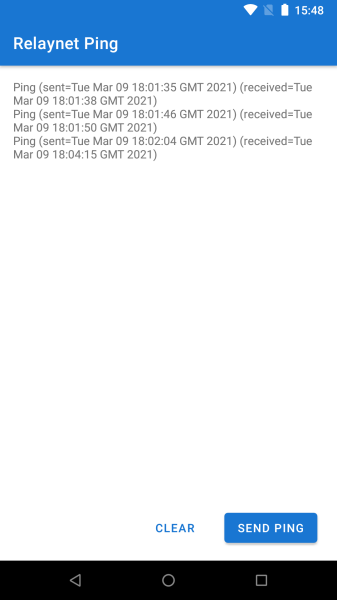
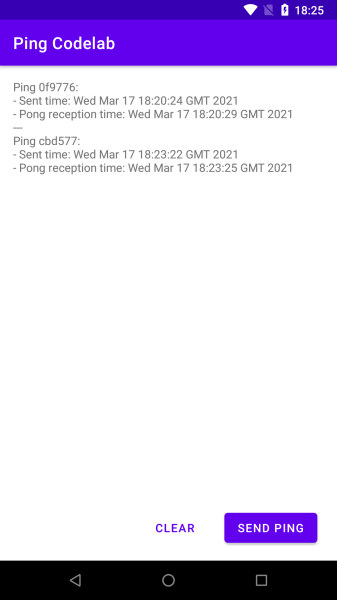
wip

Changed region(s): [[0.0, 0.0, 1.0, 0.3], [0.6528, 0.84, 0.9496, 0.93], [0.4451, 0.87, 0.5935, 0.9]]

diff --git a/codelabs/android-centralised.md b/codelabs/android-centralised.md
@@ -14,7 +14,7 @@ Duration: 0:5:00
 
 An _Awala service_ is a collection of mobile, desktop, server-side and/or CLI apps that exchange mutually-intelligible messages using _endpoints_. Server-side apps exposed as Internet hosts will have _public endpoints_ (e.g., `your-service.com`), whilst all other apps (e.g., mobile, desktop) will have _private endpoints_.
 
-The service is _centralised_ if there's a public endpoint as the sender or recipient of all messages, _decentralised_ if all endpoints are private. Alternatively, if there's a public endpoint involved in some but not necessarily all messages, then the service is _hybrid_.
+The service is _centralised_ if there's a public endpoint as the sender or recipient of all messages, or _decentralised_ if all endpoints are private. Alternatively, if there's a public endpoint involved in some but not necessarily all messages, then the service is _hybrid_.
 
 Anyone can define Awala services, but to keep this codelab simple, we'll just build an Android app for [Awala Ping](https://specs.awala.network/RS-014), which is a trivial service used to test Awala implementations.
 
@@ -32,7 +32,7 @@ On the other hand, `ping.awala.services` has to respond to your ping by sending 
 
 ![](./images/android-centralised/service-architecture-pong.png)
 
-Awala requires messages bound for private endpoints (such as the one inside this Android app) to be pre-authorised by the recipient, so that means your ping message will have to include an authorisation for `ping.awala.services` to reply with a pong message. In a regular service, authorisations would be issued once and renewed periodically, but because `ping.awala.services` is stateless, the Android app will have to issue an authorisation each time.
+Awala requires messages bound for private endpoints (such as the one inside this Android app) to be pre-authorised by the recipient, so that means your ping message will have to include an authorisation for `ping.awala.services` to reply with a pong message. In a regular service, authorisations would be issued once and renewed periodically, but `ping.awala.services` is stateless, so your app will have to issue an authorisation each time.
 
 You'll be using the Android endpoint library _[awaladroid](https://github.com/relaycorp/awala-endpoint-android)_ to send and receive messages via the private gateway.
 
@@ -42,6 +42,10 @@ You'll be using the Android endpoint library _[awaladroid](https://github.com/re
 - [Android Studio](https://developer.android.com/studio) 4.1+.
 - An Android phone or table running Android 5+.
 - The [private gateway](https://play.google.com/store/apps/details?id=tech.relaycorp.gateway) installed on that Android device.
+
+### In case you need help
+
+If you have any issues in the course of this codelab, please post a message on [our forum](https://community.awala.network/) and we'll help you out! You can also check out the [final version of the app you're going to build](https://github.com/AwalaNetwork/codelabs/tree/main/examples/android-centralised).
 
 ## Set up a new project
 
@@ -73,11 +77,19 @@ repositories {
 }
 ```
 
+Next, add the following line to the `compileOptions` inside `android { ... }` so that you can [use Java 8 features](https://developer.android.com/studio/write/java8-support) (e.g., `ZonedDateTime`):
+
+```groovy
+coreLibraryDesugaringEnabled true
+```
+
 Then add the following inside `dependencies { ... }`:
 
 ```groovy
+    // Support modern Java classes (e.g., ZonedDateTime)
+    coreLibraryDesugaring 'com.android.tools:desugar_jdk_libs:1.1.5'
     // Awala
-    implementation 'tech.relaycorp:awaladroid:1.5.4'
+    implementation 'tech.relaycorp:awaladroid:1.5.6'
     // Preferences
     implementation 'androidx.preference:preference-ktx:1.1.1'
     implementation 'com.github.tfcporciuncula.flow-preferences:flow-preferences:1.3.4'
@@ -117,32 +129,30 @@ import com.squareup.moshi.Moshi
 import com.squareup.moshi.Types
 import com.tfcporciuncula.flow.FlowSharedPreferences
 import com.tfcporciuncula.flow.Serializer
-import kotlinx.coroutines.ExperimentalCoroutinesApi
 
-data class PingMessage(
+data class Ping(
     val id: String,
-    val sent: Long = System.currentTimeMillis(),
-    val received: Long? = null
+    val pingDate: Long = System.currentTimeMillis(),
+    val pongDate: Long? = null
 )
 
-@ExperimentalCoroutinesApi
 class PingRepository(
     private val flowSharedPreferences: FlowSharedPreferences,
     private val moshi: Moshi
 ) {
     private val repo by lazy {
-        val serializer = object : Serializer<List<PingMessage>> {
-            private val adapter = moshi.adapter<List<PingMessage>>(
+        val serializer = object : Serializer<List<Ping>> {
+            private val adapter = moshi.adapter<List<Ping>>(
                 Types.newParameterizedType(
                     List::class.java,
-                    PingMessage::class.java
+                    Ping::class.java
                 )
             )
 
             override fun deserialize(serialized: String) =
                 adapter.fromJson(serialized) ?: emptyList()
 
-            override fun serialize(value: List<PingMessage>) =
+            override fun serialize(value: List<Ping>) =
                 adapter.toJson(value)
         }
 
@@ -156,9 +166,9 @@ class PingRepository(
     fun observe() = repo.asFlow()
 
     fun get(id: String) =
-        repo.get().firstOrNull { it.id == id }
+        repo.get().first { it.id == id }
 
-    suspend fun set(message: PingMessage) {
+    suspend fun set(message: Ping) {
         repo.setAndCommit(
             repo.get()
                 .filterNot { it.id == message.id }
@@ -281,6 +291,7 @@ Replace the contents of `src/main/res/layout/activity_main.xml` with the followi
                 android:layout_height="wrap_content"
                 android:layout_gravity="top|end"
                 android:layout_marginHorizontal="8dp"
+                android:backgroundTint="@color/design_default_color_background"
                 android:text="Clear" />
 
         <com.google.android.material.button.MaterialButton
@@ -288,6 +299,7 @@ Replace the contents of `src/main/res/layout/activity_main.xml` with the followi
                 android:layout_width="wrap_content"
                 android:layout_height="wrap_content"
                 android:layout_marginHorizontal="8dp"
+                android:enabled="false"
                 android:text="Send Ping" />
     </LinearLayout>
 </LinearLayout>
@@ -362,10 +374,10 @@ class MainActivity : AppCompatActivity() {
         }
     }
 
-    private fun formatPings(it: List<PingMessage>) =
+    private fun formatPings(it: List<Ping>) =
         it.joinToString("\n---\n") { ping ->
-            val pingDate = Date(ping.sent)
-            val pongDate = ping.received?.let {
+            val pingDate = Date(ping.date)
+            val pongDate = ping.pongDate?.let {
                 Date(ping.received)
             } ?: "Pending"
             val shortId = ping.id.takeLast(6)
@@ -381,6 +393,12 @@ class MainActivity : AppCompatActivity() {
     }
 }
 ```
+
+### Install the app
+
+Install the app on your Android device to make sure everything is working so far. The app should look like this, although buttons wouldn't be doing anything yet:
+
+![](images/android-centralised/main-activity-no-functionality.png)
 
 ## Configure endpoints
 
@@ -462,19 +480,165 @@ Note that you're using a shared preferences file to store the private address of
 
 ## Send pings
 
-Duration: 0:10:00
+Duration: 0:5:00
 
-- Unbinding from the private gateway [service](https://developer.android.com/guide/components/bound-services) when the app is no longer used.
+You've now completed the groundwork, so it's time to start sending pings!
 
-Generally speaking, binding must take place at some point after calling `Awala.setup()` (currently done in your `App` class) and before communication starts. You're keeping the app bound to the private gateway throughout the lifetime of the main activity just to keep the codelab simple, but in production you'll want to bind to the private gateway independently of the lifecycle of the main activity.
+Pings are JSON-serialised messages that contain a unique identifier and the authorisation for the recipient to reply with a pong message, as illustrated below:
+
+```json
+{
+  "id": "<The ping id>",
+  "pda": "<The Parcel Delivery Authorisation for the recipient (base64-encoded)>",
+  "pda_chain": [
+    "<PDA Chain, Certificate #1 (base64-encoded)>",
+    "..."
+  ]
+}
+```
+
+Using Awala's nomenclature, each ping is a _service message_ -- as is each pong. Each message is made of a _type_ (like `application/vnd.awala.ping-v1.ping`) and its _content_ (like the JSON document above). The content is binary so that you can transmit textual and binary data.
+
+A service message isn't transmitted as is: Instead, it's encrypted and put inside a _parcel_, which contains just enough information for gateways to route it and ensure that only pre-authorised messages are delivered.
+
+Fortunately, awaladroid takes care of the cryptography and (un)sealing parcels, so that you can focus on the important things.
+
+### Serialise ping messages
+
+Let's define the JSON serialisation routine first. Create a new file called `PingSerialization.kt` in the same package as the main activity, and add the following to it:
+
+```kotlin
+package com.example.pingcodelab
+
+import android.util.Base64
+import org.json.JSONArray
+import org.json.JSONObject
+
+internal fun serializePingMessage(
+    pingId: String,
+    pda: ByteArray,
+    pdaChain: List<ByteArray>
+): ByteArray {
+    val pingJSON = JSONObject()
+    pingJSON.put("id", pingId)
+    pingJSON.put("pda", base64Encode(pda))
+    pingJSON.put("pda_chain", JSONArray(pdaChain.map { base64Encode(it) }))
+    val pingJSONString = pingJSON.toString()
+    return pingJSONString.toByteArray()
+}
+
+private fun base64Encode(input: ByteArray): String =
+    Base64.encodeToString(input, Base64.DEFAULT)
+```
+
+### Send service message
+
+The private gateway runs as a [bound service](https://developer.android.com/guide/components/bound-services) and you're responsible for binding to it whenever you need to send messages. Generally speaking, binding must take place at some point after calling `Awala.setup()` (currently done in your `App` class) and before communication starts.
+
+It's up to you whether to stay bound indefinitely or only bind when necessary, but in this codelab you're going to defer the binding until the first message is sent.
+
+Go back to the `MainActivity` class and rewrite the `sendPing()` method as follows:
+
+```kotlin
+private suspend fun sendPing() {
+    // Bind to the gateway if not already bound
+    GatewayClient.bind()
+
+    val pingId = UUID.randomUUID().toString()
+    val authorization = context.sender.issueAuthorization(
+        context.recipient,
+        ZonedDateTime.now().plusDays(3)
+    )
+    val pingMessageSerialized = serializePingMessage(
+        pingId,
+        authorization.pdaSerialized,
+        authorization.pdaChainSerialized
+    )
+    val outgoingMessage = OutgoingMessage.build(
+        "application/vnd.relaynet.ping-v1.ping",
+        pingMessageSerialized,
+        context.sender,
+        context.recipient
+    )
+    GatewayClient.sendMessage(outgoingMessage)
+    val pingMessage = Ping(pingId)
+    context.pingRepository.set(pingMessage)
+}
+```
+
+`GatewayClient.bind()` is idempotent, so nothing bad would happen if the app is already bound to the gateway.
+
+### Unbind from the gateway
+
+To unbind from the gateway when the app is no longer on the foreground, go back to the `MainActivity` class and override the `onDestroy()` method as follows:
+
+
+```kotlin
+override fun onDestroy() {
+    super.onDestroy()
+
+    // Unbind from the gateway if still bound
+    GatewayClient.unbind()
+}
+```
+
+Note that `GatewayClient.unbind()` is idempotent too.
+
+### Test it!
+
+Install the app and start sending pings. It should look like this:
+
+![](images/android-centralised/main-activity-ping-only.png)
+
+You should be getting pongs at this point -- They're just not displayed on the screen just yet.
 
 ## Receive pongs
 
-Duration: 0:10:00
+Duration: 0:5:00
 
-Awala requires messages bound for private endpoints to be pre-authorised by the recipient in order to prevent abuse, but no authorisation is required when the message is bound for public endpoints.
+You're now going to update the data in the ping repository to set the time when the app received each pong message. The `MainActivity` is programmed to update the screen whenever the repository changes, so those changes should be reflected on the screen almost instantly.
 
-Collect messages outside any activity so that they can be processed when the app isn't on the foreground. The private gateway will wake it up.
+### Deserialise pong messages
+
+The content of the pong message is just the respective ping id -- no JSON this time. So go back to the `PingSerialization.kt` file and add the following:
+
+```kotlin
+internal fun extractPingIdFromPongMessage(pongMessageSerialized: ByteArray): String {
+    return pongMessageSerialized.toString(Charset.defaultCharset())
+}
+```
+
+### Collect service messages
+
+When the private gateway receives a message bound for one of the endpoints inside your app, it will notify your app by binding to it -- Android will then wake up your app in the background unless it's already running in the foreground.
+
+Before awaladroid can actually collect messages, you have to define how those messages should be processed. In this codelab you're going to do that as soon as the app starts, so that you can process pong messages even when your app isn't in use.
+
+Go to the `App` class and override the `collectMessages()` method as follows:
+
+```kotlin
+private suspend fun collectMessages() {
+    GatewayClient.receiveMessages().collect {
+        val pingId = extractPingIdFromPongMessage(it.content)
+        val pingMessage = pingRepository.get(pingId)
+        pingRepository.set(pingMessage.copy(pongDate = System.currentTimeMillis()))
+
+        it.ack()
+    }
+}
+```
+
+Note that you're having to call the `ack()` method on the incoming message as soon as you finish processing it to instruct the gateway to delete its copy of the parcel. The gateway will continue to send you that message until you acknowledge it. If the processing is expensive and/or you may get many messages, you may want to add incoming messages to a background queue and acknowledge immediately.
+
+The incoming message exposes the `type` of the message (e.g., `application/vnd.awala.ping-v1.pong`), as well as the third-party `sender` and the first-party `recipient` endpoints.
+
+You'll notice that you're not binding to the gateway: That's because awaladroid will do it on demand when new incoming messages are available.
+
+### Test it again!
+
+Reinstall the app and try to send pings again. If everything works as expected, you should now see the time when the respective pong messages were received:
+
+![](images/android-centralised/main-activity-ping-pong.png)
 
 ## That's it!
 
